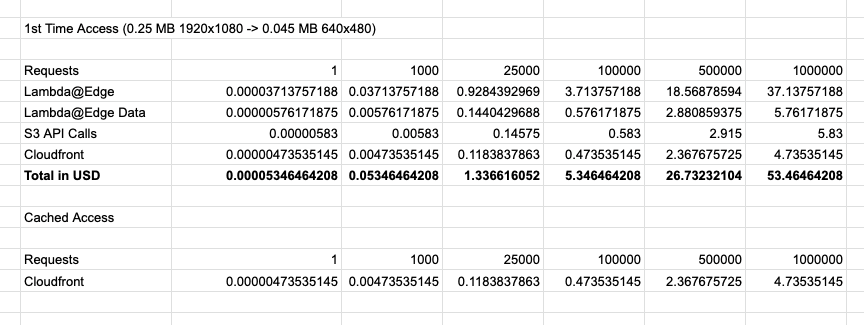
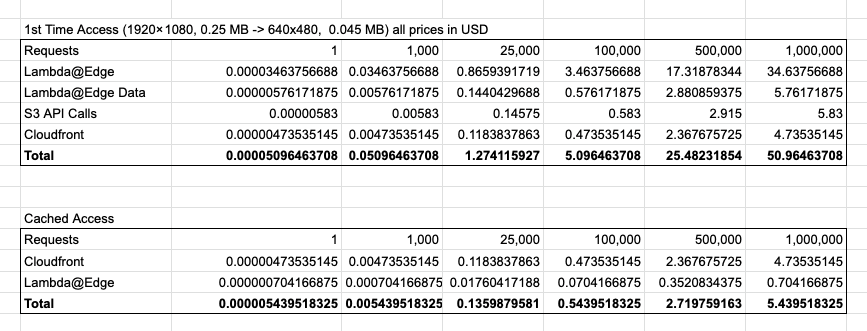
Update cost estimation

Changed region(s): [[0.0, 0.0615, 1.0, 0.5846], [0.0, 0.6154, 1.0, 0.9846]]

diff --git a/README.md b/README.md
@@ -27,21 +27,20 @@ It's not really straightforward to estimate the pricing. The [AWS Calculator](ht
 
 ![Cost Estimation Original](./cost-estimation-original.png)
 
-While data transfer from AWS origins to Cloudfront is free, data transfer to Lambda@edge is not. Therefore, the data transfer cost seems to be a significant part of the equation. I think it would make sense, to generate a few (small / medium / large) versions after the image upload, so that the data transfer is not that costly. See this example, where the same image got transformed to 1920x180 and just 250 KB:
+While data transfer from AWS origins to Cloudfront is free, data transfer to [Lambda@edge is not](https://aws.amazon.com/lambda/pricing/#Lambda.40Edge_Pricing) (unless in the same region). Therefore, the data transfer cost seems to be a significant part of the equation. I think it would make sense, to generate a few (small / medium / large) versions after the image upload, so that the data transfer is not that costly. See this example, where the same image got transformed to 1920x180 and just 250 KB:
 
 ![Cost Estimation Medium](./cost-estimation-medium.png)
 
-Interestingly enough, the processing time of the image conversion lambda isn't much different for both versions. Probably
-The next improvement which could make sense, is either moving the Bucket in the region where most of the traffic is happening, or to create an API Gateway / Lambda combo to perform the actual image conversion wihin one region.
+Interestingly enough, the processing time of the image conversion lambda isn't much different for both versions. The next improvement which could make sense, is either moving the Bucket in the region where most of the traffic is happening, or to create an API Gateway / Lambda combo to perform the actual image conversion wihin one region.
 
-### SaaS Comparison 
+### SaaS Comparison
 
 Comparing this with a service like [imgix](https://www.imgix.com/):
 
 - 1000 original images access per month (all conversions included): 3 USD
 - 1 GB CDN data transfer: 0.08 USD
 
-Assuming we generate 10 versions for each original image, this Cloudfront proxy clocks in at around 0.85 USD for 10k generated images (inkl CDN traffic). Since CDN traffic cost for subsequently cached image requests is more or less the same for imigix and Cloudfront we can ignore this factor. 
+Assuming we generate 10 versions for each original image, this Cloudfront proxy clocks in at around 0.85 USD for 10k generated images (inkl CDN traffic). Since CDN traffic cost for subsequently cached image requests is more or less the same for imigix and Cloudfront we can ignore this factor.
 
 The Cloudfront version runs at roughly 30% of the cost of imgix. However, since imgix is a SaaS offering, it's an unfair comparison and you should take engineering time and opertional burdens into account. Having said that, it's still interesting to see those numbers side by side.
 
@@ -71,6 +70,7 @@ If you're interested in more details about the cost estimation, get in touch ple
 - [ ] Add Kinsesis Firehose to aggregate all CloudWatch logs from functions across all edge locations
 - [ ] Multiple Tenants
 - [ ] Provide packages as [jsii packges](https://github.com/aws/jsii) for Python / C# / Java
+- [ ] Analytics / Dashbords / Reporting
 
 ## Similar projects
 
